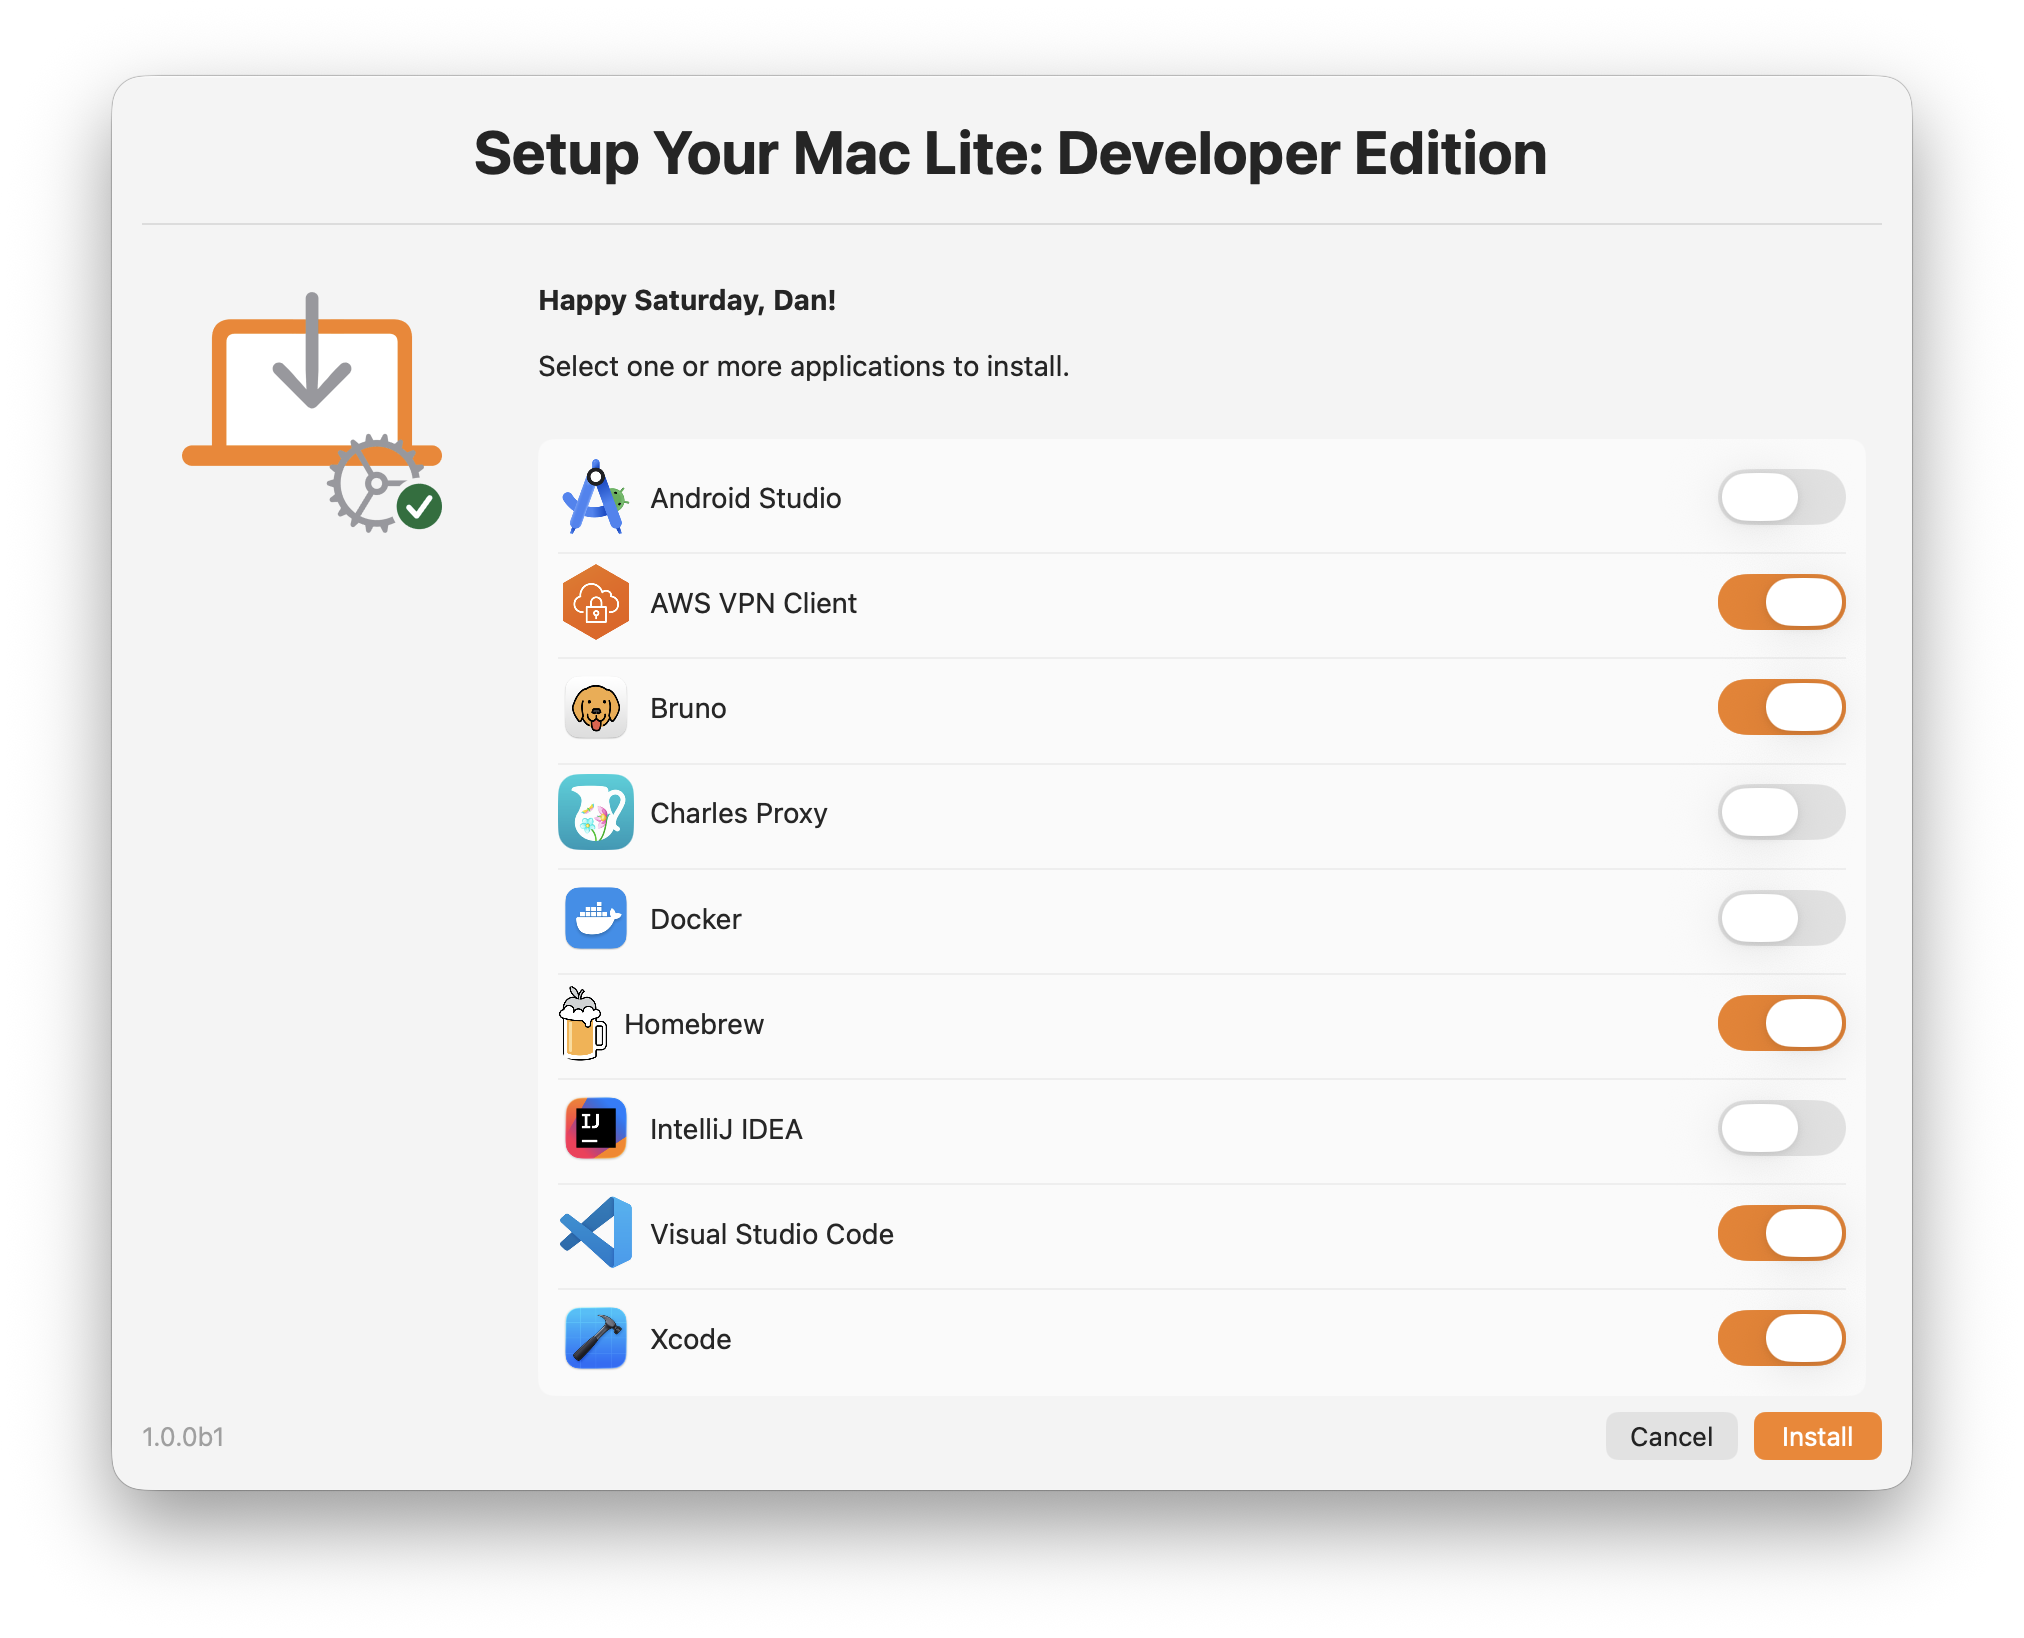
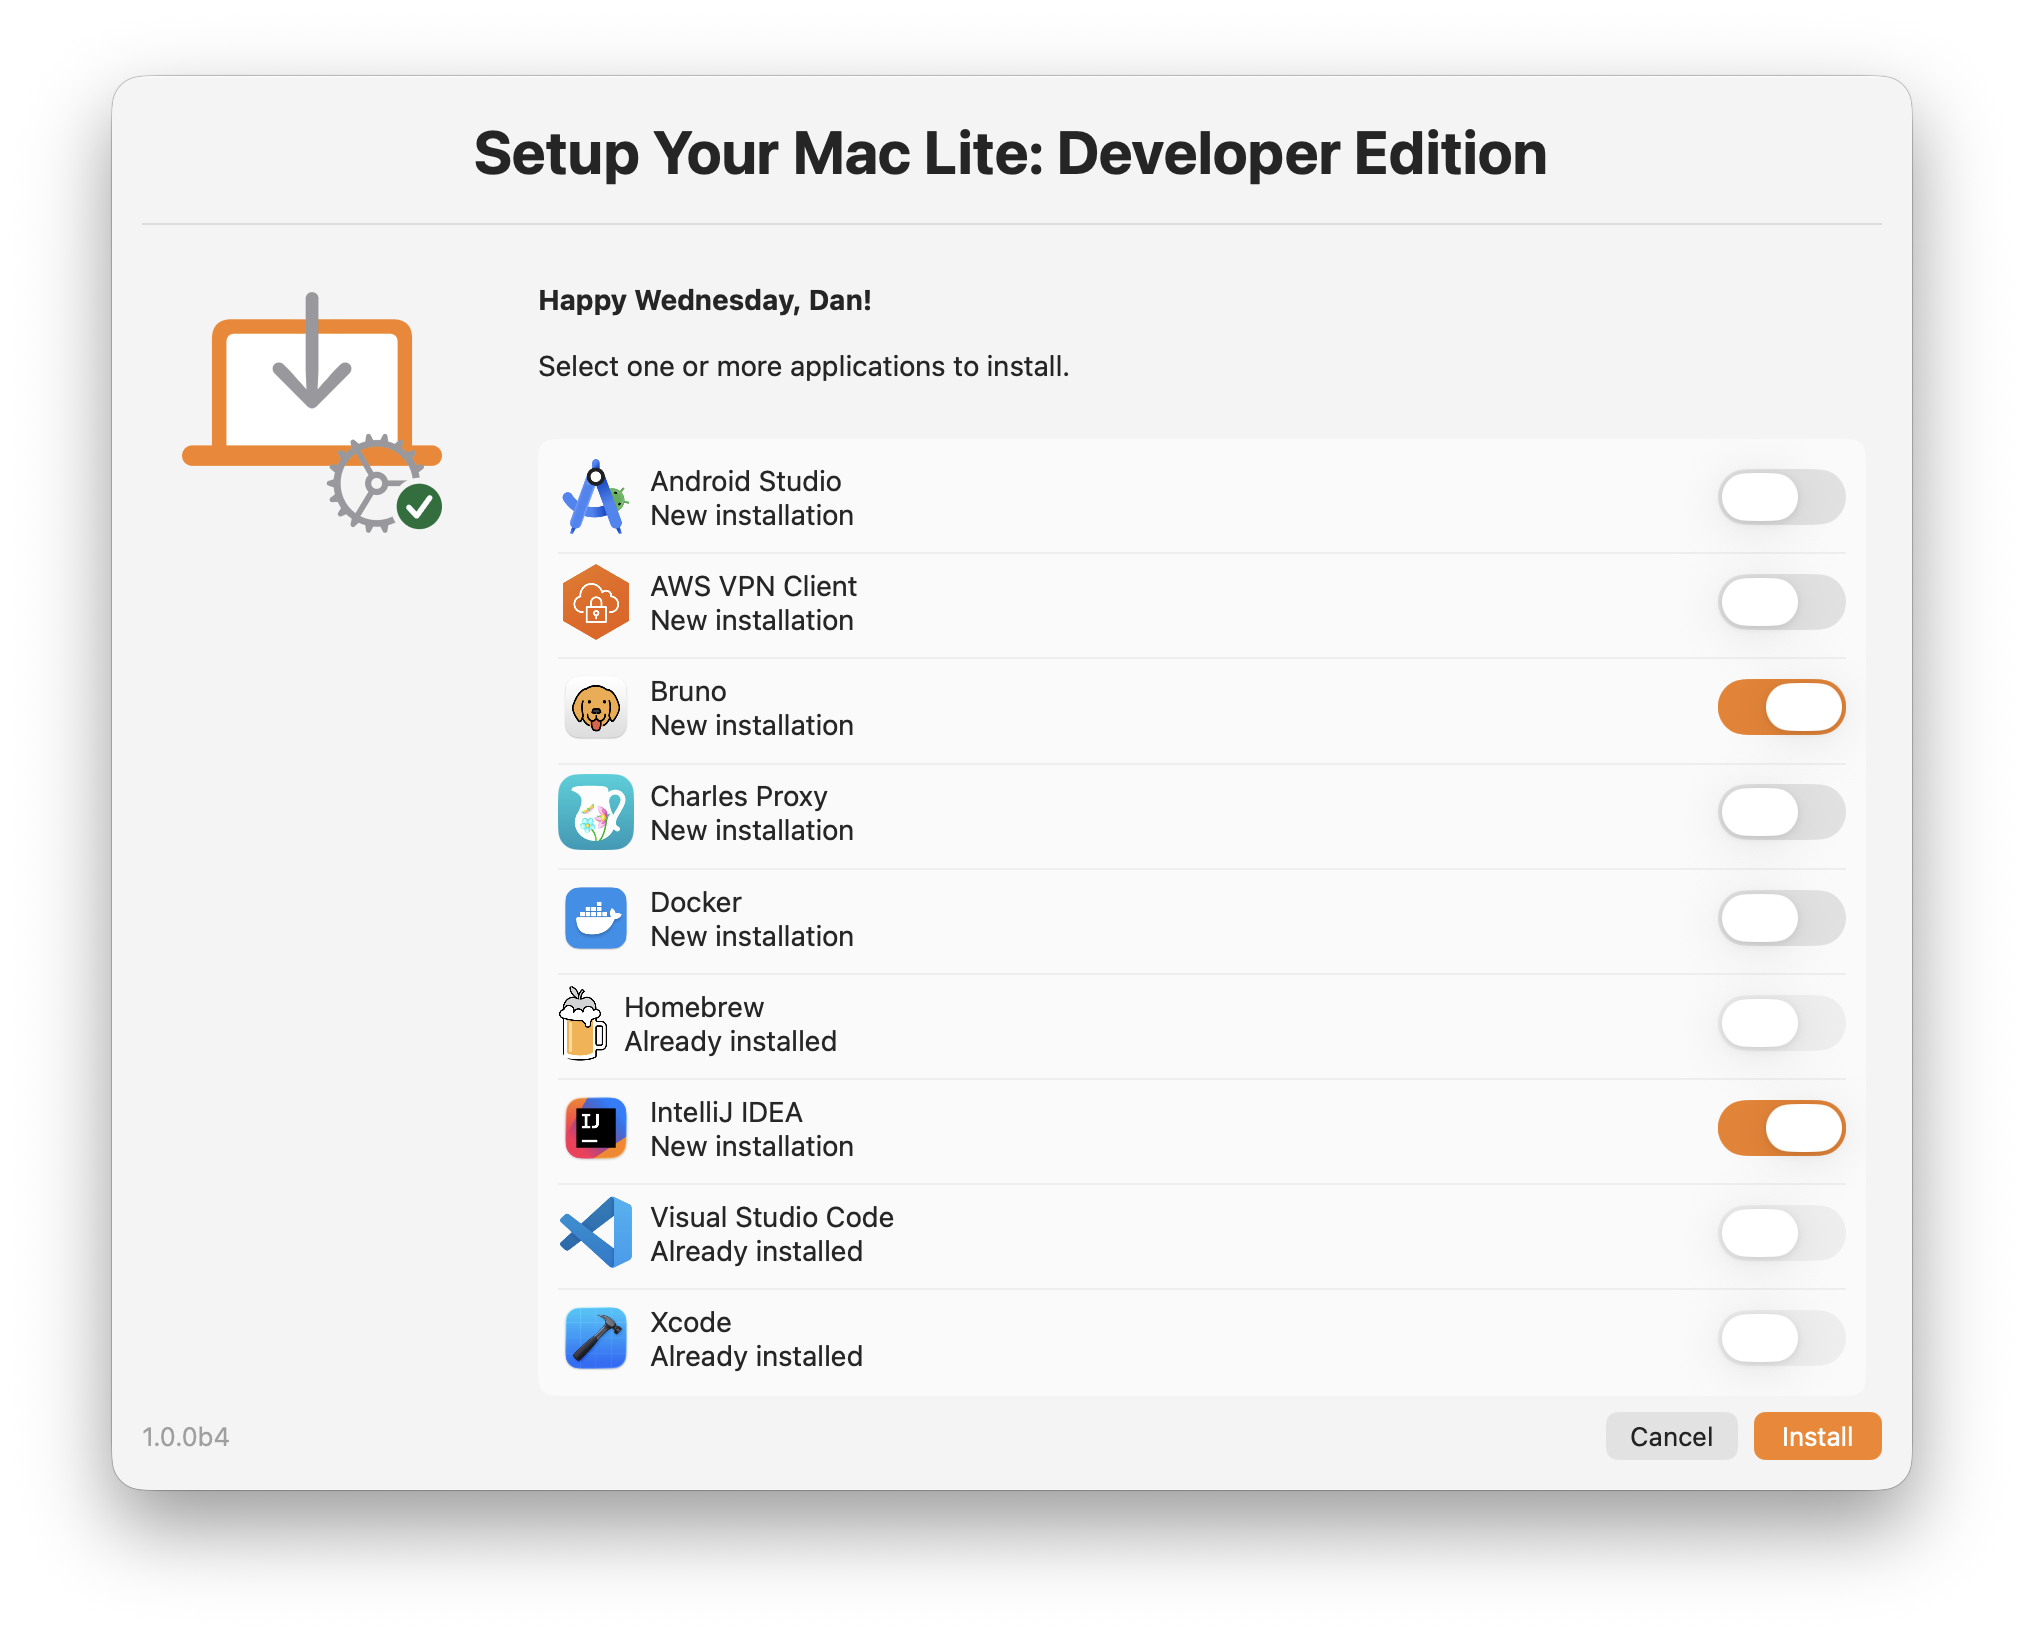
1.0.0b4
Added validation-path status text to each interactive selection dialog row.

diff --git a/README.md b/README.md
@@ -1,6 +1,6 @@
 ![GitHub release (latest by date)](https://img.shields.io/github/v/release/Setup-Your-Mac/SYM-Lite?display_name=tag) ![GitHub issues](https://img.shields.io/github/issues-raw/Setup-Your-Mac/SYM-Lite) ![GitHub closed issues](https://img.shields.io/github/issues-closed-raw/Setup-Your-Mac/SYM-Lite) ![GitHub pull requests](https://img.shields.io/github/issues-pr-raw/Setup-Your-Mac/SYM-Lite) ![GitHub closed pull requests](https://img.shields.io/github/issues-pr-closed-raw/Setup-Your-Mac/SYM-Lite)
 
-# SYM-Lite (1.0.0b3)
+# SYM-Lite (1.0.0b4)
 
 > **SYM-Lite** is a lean, purpose-built script for executing MDM-agnostic [Installomator labels](https://github.com/Installomator/Installomator/tree/main/fragments/labels) — and / or Jamf Pro-specific [policy triggers](https://learn.jamf.com/r/en-US/jamf-pro-documentation-current/Triggers_for_Policies) — all through a unified [swiftDialog](https://swiftdialog.app) selection interface
 
@@ -37,7 +37,7 @@
 ## Key Features
 
 ✓ **Dual execution support** — Installomator labels AND Jamf Pro policies in single session  
-✓ **Interactive selection UI** — User-friendly checkbox dialog with per-item icons  
+✓ **Interactive selection UI** — User-friendly checkbox dialog with per-item icons; install-state labels and disabled installed items are optional  
 ✓ **Alphabetical sorting** — All items sorted together by display name in selection dialog  
 ✓ **Silent mode** — CSV-based automation support  
 ✓ **Inspect Mode monitoring** — Real-time progress with rich status updates for Installomator labels  
@@ -332,6 +332,7 @@ Set `restartPromptEnabled="false"` in the script to skip the prompt entirely in 
 | `organizationOverlayiconURL` | swiftDialog logo | Overlay icon URL |
 | `mainDialogIcon` | GitHub raw `SYM_icon.png` URL | Main dialog icon |
 | `fontSize` | `"14"` | Dialog message font size |
+| `selectionDialogStatusSublabelsEnabled` | `"true"` | Show install-state sublabels and disable already-installed items in the interactive picker |
 | `restartPromptEnabled` | `"true"` | Show restart prompt after completion |
 | `scriptLog` | `/var/log/...log` | Client-side log path |
 
@@ -465,6 +466,6 @@ Set `restartPromptEnabled="false"` in the script to skip the prompt entirely in 
 
 ---
 
-**Version:** 1.0.0b3  
-**Date:** 02-Apr-2026  
+**Version:** 1.0.0b4  
+**Date:** 08-Apr-2026  
 **Author:** Dan K. Snelson (@dan-snelson)

diff --git a/CHANGELOG.md b/CHANGELOG.md
@@ -2,6 +2,12 @@
 
 All notable changes to this project are documented in this file.
 
+## 1.0.0b4 - 08-Apr-2026
+- Added validation-path status text to each interactive selection dialog row.
+- Added an organization-level toggle to hide selection dialog status sublabels (i.e., `selectionDialogStatusSublabelsEnabled="false"`)
+- Disabled already-installed items while preserving unified sorting, icons, and switch styling in the picker.
+- Updated release documentation for the new selection dialog feedback.
+
 ## 1.0.0b3 - 02-Apr-2026
 - Added an organization-level switch to hide Jamf policy items from the UI and skip Jamf execution.
 - Updated silent mode CSV parsing to warn and skip Jamf item IDs when Jamf policy items are disabled.
